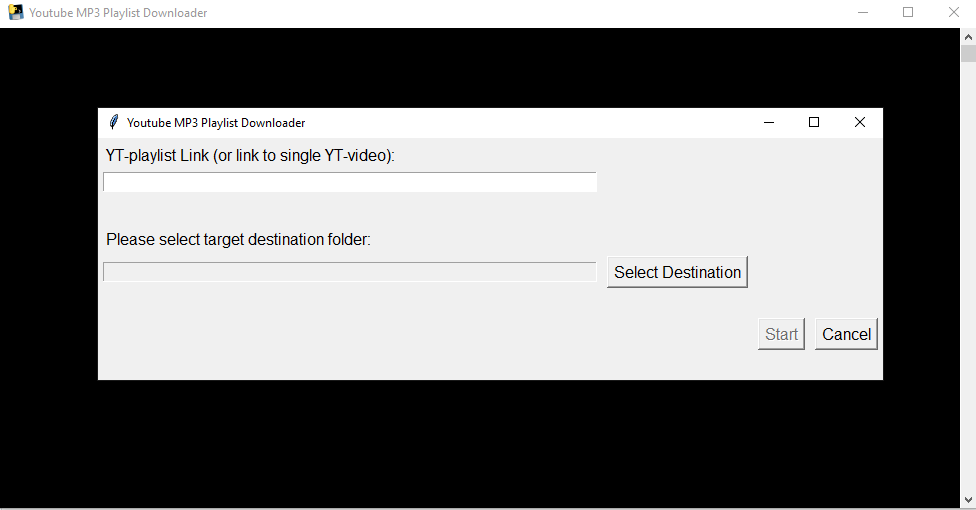
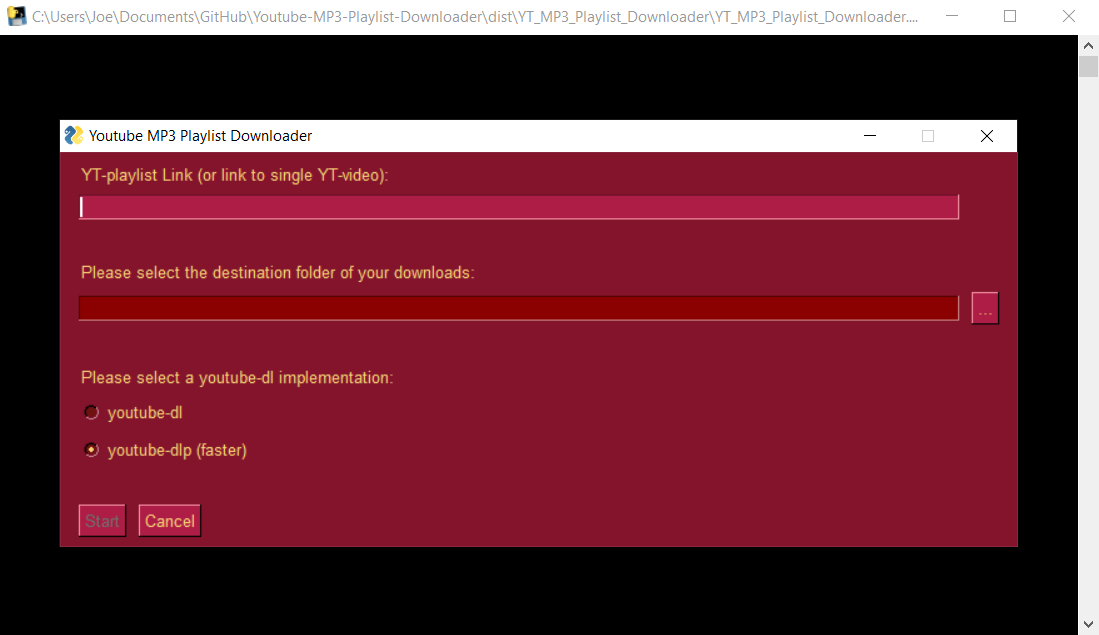
ReadMe Adjustments + changing dialog size

diff --git a/YT_MP3_Playlist_Downloader.py b/YT_MP3_Playlist_Downloader.py
@@ -84,10 +84,10 @@ def main():
 
     layout = [
         [sg.Text('YT-playlist Link (or link to single YT-video):')],
-        [sg.Input(key=key_yt_url, size=(60, 1), enable_events=True)],
+        [sg.Input(key=key_yt_url, size=(100, 1), enable_events=True)],
         [sg.Text('')],
         [sg.Text('Please select the destination folder of your downloads:')],
-        [sg.Input(key=key_path, size=(60, 1), disabled=True, disabled_readonly_background_color='DarkRed',
+        [sg.Input(key=key_path, size=(100, 1), disabled=True, disabled_readonly_background_color='DarkRed',
                   enable_events=True), sg.Button(button_text="...")],
         [sg.Text('')],
         [sg.Text('Please select a youtube-dl implementation:')],

diff --git a/README.md b/README.md
@@ -19,7 +19,7 @@ Now the dialog screen will close and the downloads will start.
 
 After the entire playlist has been downloaded you will get a confirmation dialog in which you can select to open the destination folder.
 
-![plot](./Screenshots/img_3.png)
+![plot](./Screenshots/img_3![img.png](img.png)png)
 
 
 
